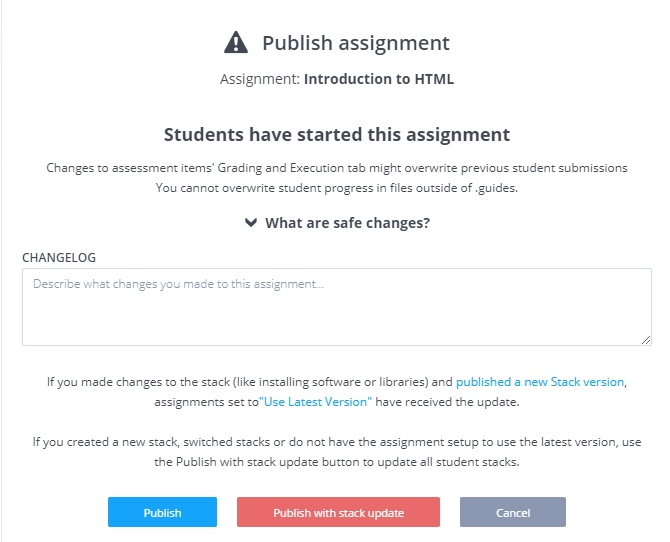
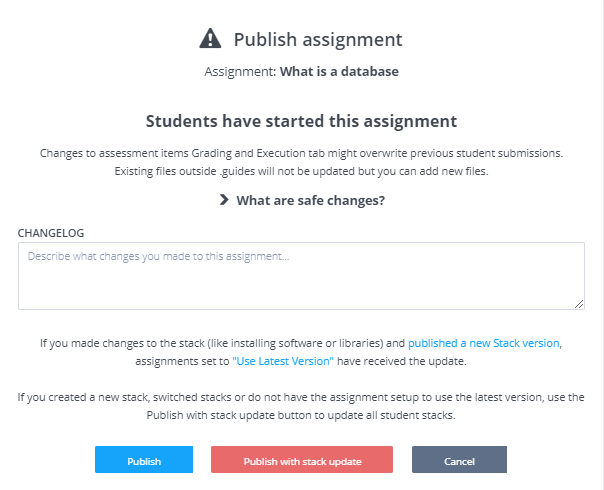
changelog #10496

diff --git a/docs/resources/changelog.md b/docs/resources/changelog.md
@@ -11,6 +11,10 @@ We do not report small bug fixes or issues that affect individual users, who we 
 `[I]` = Update or improvement
 `[F]` = New feature
 
+**August 2020**
+
+- `[I] [ 5th]`: Add support for new files to be added to existing assignments
+
 **July 2020**
 
 - `[I] [31st]`: UI/icon changes for guides editor
@@ -35,7 +39,7 @@ We do not report small bug fixes or issues that affect individual users, who we 
 - `[I] [ 3rd]`: Fix problem with release grade settings not passing correctly when cloning course
 - `[I] [ 3rd]`: Add example using [collapsible content](courses/authoring/#collapsible-content) in guides
 - `[I] [ 2nd]`: Update default points for assessments from 1 to allow better implementation of partial points
-- `[F] [ 2nd]`: Add support for [Regular Expressions](https://en.wikipedia.org/wiki/Regular_expression)in [Fill in the Blank assessments](/courses/assessments/#regular-expression-support)
+- `[F] [ 2nd]`: Add support for [Regular Expressions](https://en.wikipedia.org/wiki/Regular_expression) in [Fill in the Blank assessments](/courses/assessments/#regular-expression-support)
 - `[I] [ 1st]`: Fix issue with roles when inviting teachers to organisation
 - `[I] [ 1st]`: Fix layout of expand/collapse arrows shown in dialogs
 

diff --git a/docs/courses/classes.md b/docs/courses/classes.md
@@ -459,7 +459,7 @@ It is recommended that you connect your assignments to a remote repo (GitHub/Bit
 
 - collaborate with colleagues who can create their own 'project' by importing from the repo and push their changes to the repo for review before they are pulled into the course assignment and published
 
-**Please note** the code workspace, other than the guides folder, is never updated as this can invalidate work for students who have already started the assignment. Any students who haven't started the assignment will see the updated content but for those that have already started the assignment they will not. 
+**Please note** the code workspace can be updated with new files added but existing files will not be updated as this can invalidate work for students who have already started the assignment. Any students who haven't started the assignment will see the updated content but for those that have already started the assignment they will not. 
 
 To enable students who have started the unit to see the new content, the assignment can be **Reset** (see [Actions Area Settings](/courses/classes/#actions-area-settings) for more information) but be aware that any existing work they may have done will be lost.
 

diff --git a/docs/courses/coursemanagement.md b/docs/courses/coursemanagement.md
@@ -286,7 +286,7 @@ You should enter a brief description of the changes you made since the last publ
 ### Publishing options
 If, in your project assignment, you have
 
-- only made changes to the code workspace (the workspace is the contents of the file tree in the IDE or `/home/codio/workspace`)
+- only made changes to the code workspace (the workspace is the contents of the file tree in the IDE or `/home/codio/workspace`
 
 then you should
 
